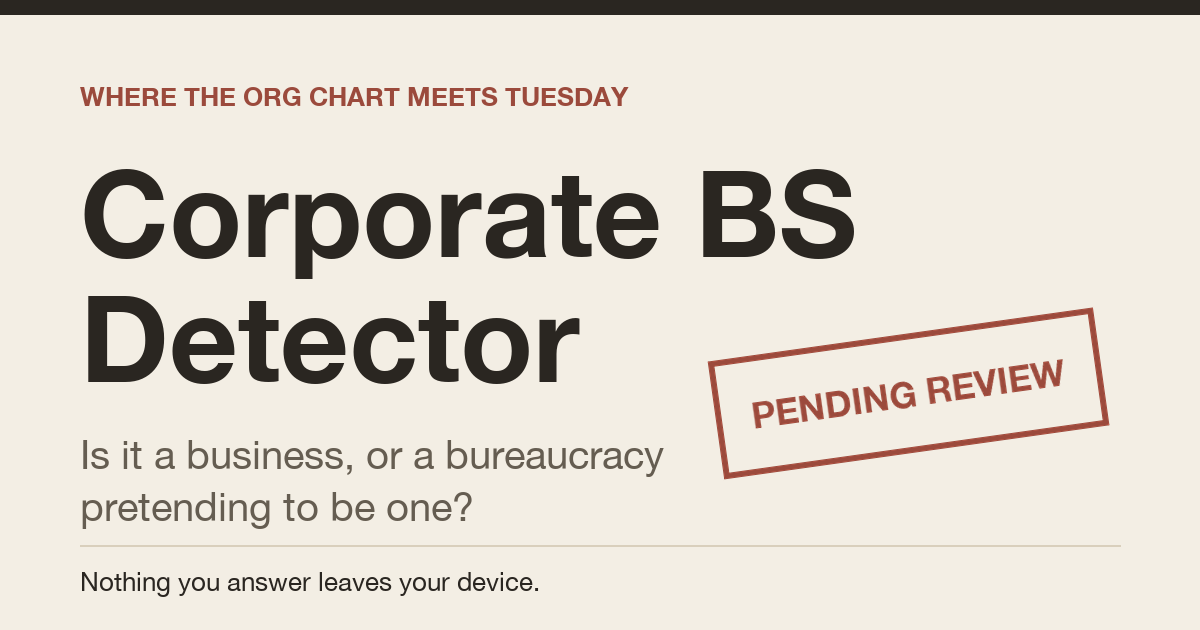
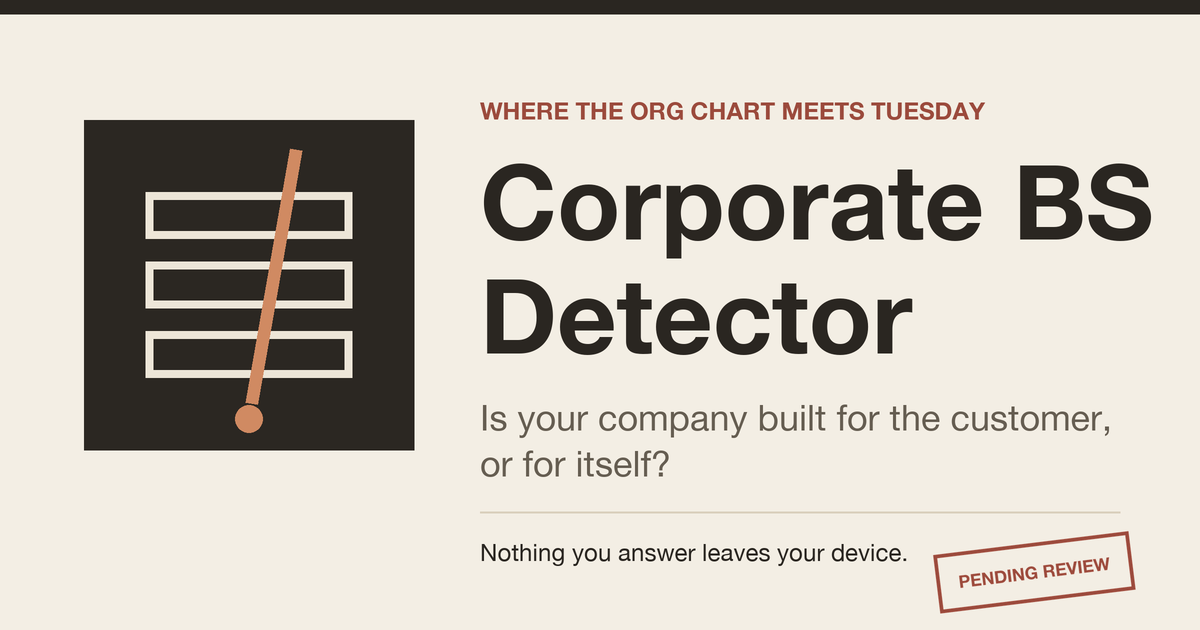
Animate the symbol and add a link preview image
The copper line in the homepage symbol now sways like a metronome, pivoting on
its dot (and stays still when reduced motion is on). Adds a redesigned 1200x630
link preview image and an Apple touch icon, and completes the preview tags on
every page.

Changed region(s): [[0.0617, 0.1206, 0.9558, 0.754], [0.0617, 0.7841, 0.9558, 0.9952]]

diff --git a/index.html b/index.html
@@ -11,10 +11,17 @@
 <meta property="og:description" content="A funny, honest card game about how your company really works. Nothing you answer leaves your device.">
 <meta property="og:url" content="https://corporate-production-f647.up.railway.app/">
 <meta property="og:image" content="https://corporate-production-f647.up.railway.app/og-image.png">
+<meta property="og:site_name" content="The Garage">
+<meta property="og:image:type" content="image/png">
+<meta property="og:image:width" content="1200">
+<meta property="og:image:height" content="630">
+<meta property="og:image:alt" content="Corporate BS Detector: a dark square with three stacked bars and a copper line cutting through them, beside the title.">
+<meta name="twitter:image:alt" content="Corporate BS Detector: a dark square with three stacked bars and a copper line cutting through them, beside the title.">
 <meta name="twitter:card" content="summary_large_image">
 <meta name="twitter:title" content="Corporate BS Detector: is your company built for the customer, or for itself?">
 <meta name="twitter:image" content="https://corporate-production-f647.up.railway.app/og-image.png">
 <link rel="icon" href="favicon.svg" type="image/svg+xml">
+<link rel="apple-touch-icon" href="apple-touch-icon.png">
 <link rel="stylesheet" href="styles.css">
 </head>
 <body>
@@ -38,7 +45,7 @@
 <!-- HERO -->
 <section class="hero">
   <div class="wrap">
-    <svg class="hero-mark" viewBox="0 0 64 64" width="72" height="72" role="img" aria-label="Corporate BS Detector symbol: a line cutting through layers"><rect width="64" height="64" fill="#2B2722"/><g fill="none" stroke="#EDE6D8" stroke-width="1.6" stroke-opacity=".9"><rect x="12" y="14" width="40" height="9"/><rect x="12" y="27.5" width="40" height="9"/><rect x="12" y="41" width="40" height="9"/></g><line x1="32" y1="5" x2="32" y2="55" stroke="#D08A62" stroke-width="2.4"/><circle cx="32" cy="58" r="2.6" fill="#D08A62"/></svg>
+    <svg class="hero-mark" viewBox="0 0 64 64" width="72" height="72" role="img" aria-label="Corporate BS Detector symbol: a line cutting through layers"><rect width="64" height="64" fill="#2B2722"/><g fill="none" stroke="#EDE6D8" stroke-width="1.6" stroke-opacity=".9"><rect x="12" y="14" width="40" height="9"/><rect x="12" y="27.5" width="40" height="9"/><rect x="12" y="41" width="40" height="9"/></g><g class="rod"><line x1="32" y1="5" x2="32" y2="55" stroke="#D08A62" stroke-width="2.4"/></g><circle cx="32" cy="58" r="2.6" fill="#D08A62"/></svg>
     <h1>Is your company built for the customer, or for itself?</h1>
     <p class="lead">The Corporate BS Detector is a funny, honest card game about how your company actually works. Real workplace scenarios, no jargon, and nothing you answer leaves your device.</p>
     <p class="actions">

diff --git a/methodology.html b/methodology.html
@@ -6,7 +6,23 @@
 <title>How scoring works | Corporate BS Detector</title>
 <meta name="description" content="A plain-language explanation of how the Corporate BS Detector scores answers, and what the results can and cannot tell you.">
 <meta name="theme-color" content="#F3EEE4">
+<meta property="og:type" content="website">
+<meta property="og:title" content="How scoring works | Corporate BS Detector">
+<meta property="og:description" content="A plain-language explanation of how the Corporate BS Detector scores answers, and what the results can and cannot tell you.">
+<meta property="og:url" content="https://corporate-production-f647.up.railway.app/methodology.html">
+<meta property="og:image" content="https://corporate-production-f647.up.railway.app/og-image.png">
+<meta property="og:site_name" content="The Garage">
+<meta property="og:image:type" content="image/png">
+<meta property="og:image:width" content="1200">
+<meta property="og:image:height" content="630">
+<meta property="og:image:alt" content="Corporate BS Detector: a dark square with three stacked bars and a copper line cutting through them, beside the title.">
+<meta name="twitter:image:alt" content="Corporate BS Detector: a dark square with three stacked bars and a copper line cutting through them, beside the title.">
+<meta name="twitter:card" content="summary_large_image">
+<meta name="twitter:title" content="How scoring works | Corporate BS Detector">
+<meta name="twitter:description" content="A plain-language explanation of how the Corporate BS Detector scores answers, and what the results can and cannot tell you.">
+<meta name="twitter:image" content="https://corporate-production-f647.up.railway.app/og-image.png">
 <link rel="icon" href="favicon.svg" type="image/svg+xml">
+<link rel="apple-touch-icon" href="apple-touch-icon.png">
 <link rel="stylesheet" href="styles.css">
 </head>
 <body class="doc-page">

diff --git a/privacy.html b/privacy.html
@@ -6,7 +6,23 @@
 <title>Privacy | Corporate BS Detector</title>
 <meta name="description" content="How the Corporate BS Detector handles your answers: nothing is collected, saved or sent.">
 <meta name="theme-color" content="#F3EEE4">
+<meta property="og:type" content="website">
+<meta property="og:title" content="Privacy | Corporate BS Detector">
+<meta property="og:description" content="How the Corporate BS Detector handles your answers: nothing is collected, saved or sent.">
+<meta property="og:url" content="https://corporate-production-f647.up.railway.app/privacy.html">
+<meta property="og:image" content="https://corporate-production-f647.up.railway.app/og-image.png">
+<meta property="og:site_name" content="The Garage">
+<meta property="og:image:type" content="image/png">
+<meta property="og:image:width" content="1200">
+<meta property="og:image:height" content="630">
+<meta property="og:image:alt" content="Corporate BS Detector: a dark square with three stacked bars and a copper line cutting through them, beside the title.">
+<meta name="twitter:image:alt" content="Corporate BS Detector: a dark square with three stacked bars and a copper line cutting through them, beside the title.">
+<meta name="twitter:card" content="summary_large_image">
+<meta name="twitter:title" content="Privacy | Corporate BS Detector">
+<meta name="twitter:description" content="How the Corporate BS Detector handles your answers: nothing is collected, saved or sent.">
+<meta name="twitter:image" content="https://corporate-production-f647.up.railway.app/og-image.png">
 <link rel="icon" href="favicon.svg" type="image/svg+xml">
+<link rel="apple-touch-icon" href="apple-touch-icon.png">
 <link rel="stylesheet" href="styles.css">
 </head>
 <body class="doc-page">

diff --git a/play.html b/play.html
@@ -11,11 +11,18 @@
 <meta property="og:description" content="Real workplace scenarios, a funny but honest read on how your company is designed to work. Nothing leaves your device.">
 <meta property="og:url" content="https://corporate-production-f647.up.railway.app/play.html">
 <meta property="og:image" content="https://corporate-production-f647.up.railway.app/og-image.png">
+<meta property="og:site_name" content="The Garage">
+<meta property="og:image:type" content="image/png">
+<meta property="og:image:width" content="1200">
+<meta property="og:image:height" content="630">
+<meta property="og:image:alt" content="Corporate BS Detector: a dark square with three stacked bars and a copper line cutting through them, beside the title.">
+<meta name="twitter:image:alt" content="Corporate BS Detector: a dark square with three stacked bars and a copper line cutting through them, beside the title.">
 <meta name="twitter:card" content="summary_large_image">
 <meta name="twitter:title" content="Corporate BS Detector">
 <meta name="twitter:description" content="Is it a business, or a bureaucracy pretending to be one?">
 <meta name="twitter:image" content="https://corporate-production-f647.up.railway.app/og-image.png">
 <link rel="icon" href="favicon.svg" type="image/svg+xml">
+<link rel="apple-touch-icon" href="apple-touch-icon.png">
 <link rel="stylesheet" href="styles.css">
 </head>
 <body class="play-page bsd">

diff --git a/lessons.html b/lessons.html
@@ -11,10 +11,17 @@
 <meta property="og:description" content="Five questions, ten rules and a field guide to what makes companies entrepreneurial and what makes them slow.">
 <meta property="og:url" content="https://corporate-production-f647.up.railway.app/lessons.html">
 <meta property="og:image" content="https://corporate-production-f647.up.railway.app/og-image.png">
+<meta property="og:site_name" content="The Garage">
+<meta property="og:image:type" content="image/png">
+<meta property="og:image:width" content="1200">
+<meta property="og:image:height" content="630">
+<meta property="og:image:alt" content="Corporate BS Detector: a dark square with three stacked bars and a copper line cutting through them, beside the title.">
+<meta name="twitter:image:alt" content="Corporate BS Detector: a dark square with three stacked bars and a copper line cutting through them, beside the title.">
 <meta name="twitter:card" content="summary_large_image">
 <meta name="twitter:title" content="The Garage: the lessons behind the Corporate BS Detector">
 <meta name="twitter:image" content="https://corporate-production-f647.up.railway.app/og-image.png">
 <link rel="icon" href="favicon.svg" type="image/svg+xml">
+<link rel="apple-touch-icon" href="apple-touch-icon.png">
 <link rel="stylesheet" href="styles.css">
 </head>
 <body>

diff --git a/styles.css b/styles.css
@@ -707,3 +707,8 @@ main:focus { outline: none; }
 .q5 p { margin: 0; font-size: clamp(19px, 2.4vw, 24px); font-weight: 500; letter-spacing: -0.02em; line-height: 1.3; max-width: 30em; }
 @media (max-width: 860px) { .q5 li { gap: 16px; padding: 18px 0; grid-template-columns: 56px 1fr; } .q5-icon { width: 56px; height: 56px; } }
 .hero-mark { display: block; width: 72px; height: 72px; margin: 0 0 30px; }
+
+/* metronome sway: the copper line pivots on its dot */
+.hero-mark .rod { transform-origin: 32px 58px; animation: sway 1.3s ease-in-out infinite alternate; }
+@keyframes sway { from { transform: rotate(-13deg); } to { transform: rotate(13deg); } }
+@media (prefers-reduced-motion: reduce) { .hero-mark .rod { animation: none; } }
